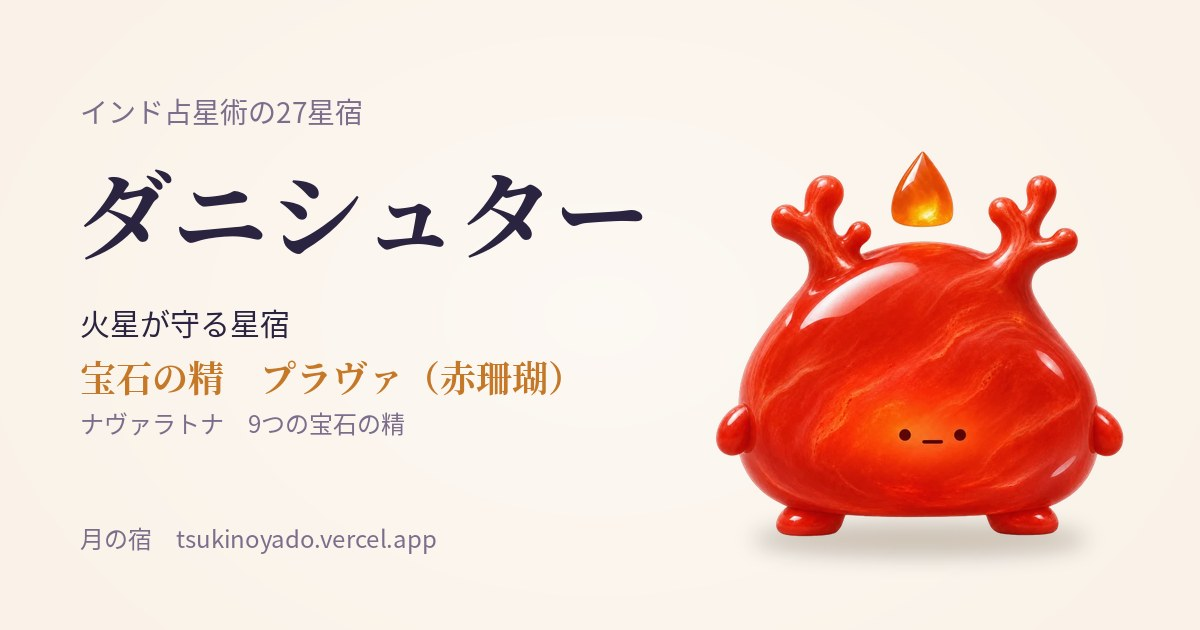
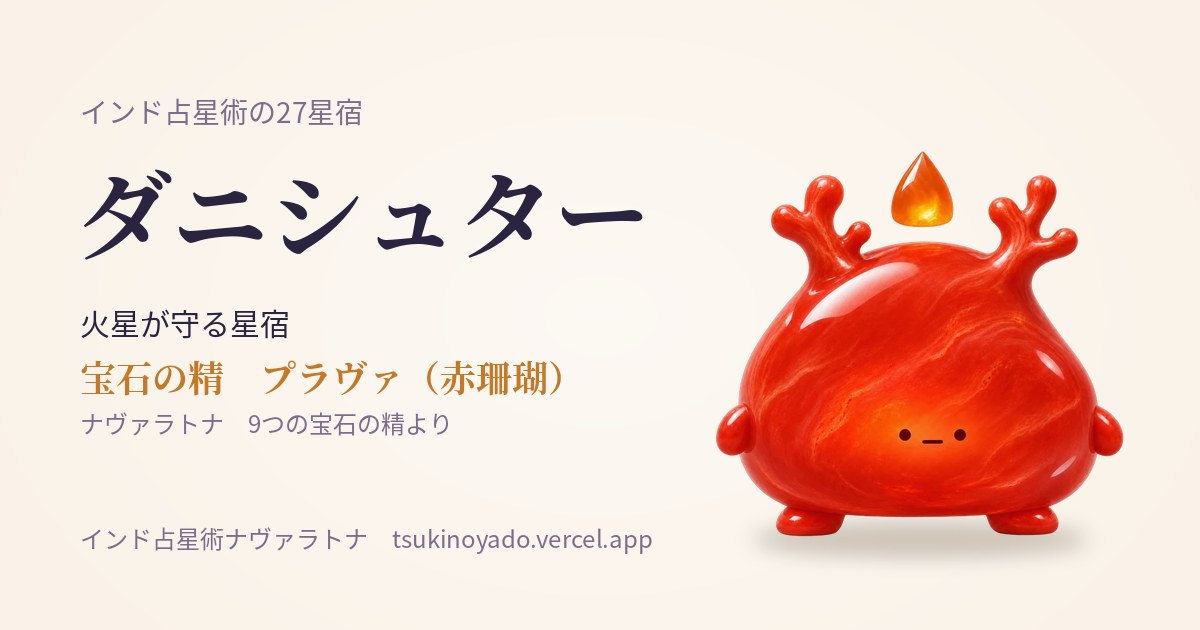
サイト名を「インド占星術ナヴァラトナ」に変更（ロゴ、タイトル、シェア画像、ハッシュタグ、運営者表記）
Claude-Session: https://claude.ai/code/session_01CytgqpMCeuamcez5Rq2jrM

Changed region(s): [[0.0617, 0.8444, 0.555, 0.8746], [0.3392, 0.6635, 0.37, 0.6937]]

diff --git a/src/assets/chart.js b/src/assets/chart.js
@@ -14,7 +14,7 @@ function render(){var b=TK.readBirth('a-'),st=$('status');if(b.err){st.textConte
    '<div class="card"><span class="eyebrow">心の星宿（月のナクシャトラ）</span><span class="big">'+moon.nak.name+'</span><h3>月は'+S[moon.sign]+'</h3><p class="note" style="color:inherit">'+((window.NKSUM||[])[moon.nak.i]||'')+'</p><a href="/nakshatra/'+moon.nak.slug+'/">'+moon.nak.name+'のくわしい解説を読む</a>'+(window.SR?'<div class="mini-seirei"><img src="'+SR.img(SR.BY[JY.DL[moon.nak.i%9]].id,true)+'" alt="" width="56" height="56"><span class="note">この星宿を守る精：<a href="/seirei/#'+SR.BY[JY.DL[moon.nak.i%9]].id+'">'+SR.BY[JY.DL[moon.nak.i%9]].name+'（'+SR.BY[JY.DL[moon.nak.i%9]].gem+'・'+JY.DL[moon.nak.i%9]+'）</a></span></div>':'')+(mr?'<p class="warn">この日は月が「'+JY.NK[mr[0]]+'」から「'+JY.NK[mr[1]]+'」へ移る日です。時刻がわかると確定できます。</p>':'')+'</div>'+
    (b.unknown?'':'<div class="card"><span class="eyebrow">アセンダント（ラグナ）</span><span class="big">'+S[r.ascSign]+'</span><h3>生まれ持った性質</h3><p class="note" style="color:inherit">'+LGT[r.ascSign]+'</p></div>');
   if(window.CX){$('readings').insertAdjacentHTML('beforeend',CX.mangal(r,b));$('stren').innerHTML=CX.strength(r,b);}
-  if($('shr'))$('shr').innerHTML=TK.shareHTML('私の魂の星は「'+ak+'」、心の星宿は「'+moon.nak.name+'」でした。 #月の宿 #インド占星術',location.origin+'/chart/');
+  if($('shr'))$('shr').innerHTML=TK.shareHTML('私の魂の星は「'+ak+'」、心の星宿は「'+moon.nak.name+'」でした。 #ナヴァラトナ #インド占星術',location.origin+'/chart/');
   var k1=cells(r,1);$('d1').innerHTML='<figcaption><b>D1 出生図</b><span>'+who+'／'+b.label+'</span></figcaption>'+TK.grid(k1.c,b.unknown?-1:k1.a,'ラーシ<br>出生図');
   var t='<thead><tr><th>星</th><th>星座</th><th>度数</th><th>ハウス</th><th>星宿・パダ</th><th>状態</th><th>カーラカ</th></tr></thead><tbody>';
   if(!b.unknown)t+='<tr><td><b>アセンダント</b></td><td>'+S[r.ascSign]+'</td><td class="num">'+dm(r.asc%30)+'</td><td class="num">1室</td><td>'+r.ascNak.name+' '+r.ascNak.pada+'</td><td></td><td></td></tr>';

diff --git a/src/assets/sadesati.js b/src/assets/sadesati.js
@@ -9,7 +9,7 @@ function run(){var b=TK.readBirth('a-'),st=$('status');if(b.err){st.textContent=
   var warn=b.unknown&&Math.floor(JY.moonSid(b.dayStart)/30)!==Math.floor(JY.moonSid(b.dayStart+864e5-6e4)/30)?'<p class="warn">生まれた日に月の星座が切り替わっています。時刻がわかると確定できます。</p>':'';
   $('res').innerHTML='<div class="card now"><span class="eyebrow">あなたの月の星座</span><span class="big">'+JY.SIGNS[ms]+'</span><h3>'+(cur?'いまはサディサティの時期です':'いまはサディサティの時期ではありません')+'</h3>'+(ph?'<p style="margin:0">'+ph+'</p>':'')+'<p class="note">対象になる星座：'+JY.SIGNS[Z[0]]+'・'+JY.SIGNS[Z[1]]+'・'+JY.SIGNS[Z[2]]+'</p>'+warn+'</div>'+
    '<div class="card"><h3>生涯のサディサティ</h3><ul style="margin:0;padding-left:1.2em">'+per.map(function(p){var live=p===cur,past=p.end!==null&&p.end<=now;return '<li><span class="num">'+(p.fromStart?'誕生時':TK.ymd(p.start))+' 〜 '+(p.end?TK.ymd(p.end):'')+'</span> '+(live?'<span class="pill b">いまこの時期</span>':past?'<span class="pill r">終了</span>':'<span class="pill own">これから</span>')+'</li>';}).join('')+'</ul><p class="note">土星の逆行で短く行き来する期間は、一続きの時期としてまとめています。</p></div>';
-  $('res').insertAdjacentHTML('beforeend',TK.shareHTML('土星の7年半「サディサティ」の時期を調べました。 #月の宿 #インド占星術',location.origin+'/sadesati/'));
+  $('res').insertAdjacentHTML('beforeend',TK.shareHTML('土星の7年半「サディサティ」の時期を調べました。 #ナヴァラトナ #インド占星術',location.origin+'/sadesati/'));
   st.textContent='結果を表示しています';return true;}
 function nowList(){try{var t=Astronomy.MakeTime(new Date()),s=Math.floor(((Astronomy.Ecliptic(Astronomy.GeoVector(Astronomy.Body.Saturn,t,true)).elon-(23.856704+1.397238*(t.tt/36525)))%360+360)%360/30);
   var a=(s+1)%12,b=s,c=(s+11)%12;$('nowlist').innerHTML='<li><b>'+JY.SIGNS[a]+'</b>：第1段階</li><li><b>'+JY.SIGNS[b]+'</b>：ピーク</li><li><b>'+JY.SIGNS[c]+'</b>：最終段階</li>';$('satnow').textContent=JY.SIGNS[s];}catch(e){}}

diff --git a/src/assets/aisho.js b/src/assets/aisho.js
@@ -38,7 +38,7 @@ function run(){var a=TK.readBirth('a-'),b=TK.readBirth('b-'),st=$('status');if(a
       (hA||hB)?['少し注意の組み合わせ','b',(hA?'あなた':'お相手')+'にだけマンガル・ドーシャがあります。火星の情熱や勢いが、関係の中で強く出やすい組み合わせです。ぶつかったときの冷まし方を二人で決めておくと安心です。ほかの項目の相性がよければ大きな問題ではないとする占い師も多くいます。']:
       ['よい組み合わせ','g',(mA.has||mB.has)?'マンガル・ドーシャはありますが、火星が穏やかに働く位置にあるため、気にしなくてよい組み合わせです。':'二人ともマンガル・ドーシャはありません。'];
   $('res').insertAdjacentHTML('beforeend','<div class="card"><span class="eyebrow">マンガル・ドーシャ（火星の配置）</span><h3><span class="pill '+mv[1]+'">'+mv[0]+'</span></h3><p style="margin:0">'+mv[2]+'</p><p class="note" style="color:inherit"><b>あなた：</b>'+CX.mangalText(mA)+'<br><b>お相手：</b>'+CX.mangalText(mB)+'</p><p class="note">インドで結婚の相性を見るとき、36点の相性とあわせて必ず確かめる配置です。'+((a.unknown||b.unknown)?'時刻がわからない人は、月と金星からだけ見ています。':'')+'</p></div>');
-  $('res').insertAdjacentHTML('beforeend',TK.shareHTML('インド式の相性占いで、二人の相性は36点中'+(Math.round(r.total*10)/10)+'点でした。 #月の宿 #インド占星術',location.origin+'/aisho/'));
+  $('res').insertAdjacentHTML('beforeend',TK.shareHTML('インド式の相性占いで、二人の相性は36点中'+(Math.round(r.total*10)/10)+'点でした。 #ナヴァラトナ #インド占星術',location.origin+'/aisho/'));
   st.textContent='相性を表示しています';return true;}
 TK.initPlace('a-');TK.initPlace('b-');
 $('f').addEventListener('submit',function(e){e.preventDefault();try{if(run())$('res').scrollIntoView({behavior:'smooth'});}catch(err){$('status').textContent='計算できませんでした。入力を確認してください。';}});

diff --git a/src/assets/group.js b/src/assets/group.js
@@ -21,7 +21,7 @@ function run(){var ppl=read().filter(function(x){return x.d;}),st=$('status');if
   ppl.map(function(x,i){return '<tr><td><b>'+x.name.replace(/</g,'&lt;')+'</b><br><a class="note" href="/nakshatra/'+x.nk.slug+'/">'+x.nk.name+'</a>'+(x.amb?'<br><span class="warn">星宿が未確定</span>':'')+'</td>'+M[i].map(function(v){return v===null?'<td class="mut">—</td>':'<td class="num"><span class="pill '+colr(v)+'">'+(Math.round(v*10)/10)+'</span></td>';}).join('')+'</tr>';}).join('')+'</tbody></table></div>';
  h+='<div class="card"><h3>相性ランキング</h3><ol style="margin:0;padding-left:1.4em">'+pairs.map(function(p){return '<li>'+ppl[p.a].name.replace(/</g,'&lt;')+' × '+ppl[p.b].name.replace(/</g,'&lt;')+'　<span class="num">'+(Math.round(p.v*10)/10)+'点</span></li>';}).join('')+'</ol><p class="note">点数は、インド式の相性占い「アシュタクータ」（36点満点）を、性別を問わず両方向で計算した平均です。18点以上がひとつの目安です。</p></div>';
  if(ppl.some(function(x){return x.amb;}))h+='<p class="warn">「星宿が未確定」の人は、生まれた日に月の星宿が切り替わっています。時刻を入れると確定します。</p>';
- h+=TK.shareHTML(N+'人のグループ相性を、インド占星術で占いました。 #月の宿 #インド占星術',location.origin+'/group/');
+ h+=TK.shareHTML(N+'人のグループ相性を、インド占星術で占いました。 #ナヴァラトナ #インド占星術',location.origin+'/group/');
  $('res').innerHTML=h;st.textContent=N+'人の相性を表示しています';return true;}
 $('add').addEventListener('click',function(){addRow();save();});
 $('f').addEventListener('submit',function(e){e.preventDefault();try{if(run())$('res').scrollIntoView({behavior:'smooth'});}catch(err){$('status').textContent='計算できませんでした。入力を確認してください。';}});

diff --git a/src/assets/muhurta.js b/src/assets/muhurta.js
@@ -24,7 +24,7 @@ function run(e){if(e)e.preventDefault();var k=$('mp').value,R=P[k],mine=$('mn').
    (out.length?'<div class="mlist">'+out.map(function(o){var x=o.x,top=best.indexOf(x.ds)>=0;return '<div class="mrow'+(top?' top':'')+'"><b class="num">'+x.y+'/'+x.m+'/'+x.d+'（'+WK[x.wd]+'）</b>'+(top?'<span class="pill g">特におすすめ</span>':'')+
      '<span>月の星宿：<a href="/nakshatra/'+JY.NKSLUG[x.nk]+'/">'+JY.NK[x.nk]+'</a>・'+(x.ti<15?'満ちていく月':'欠けていく月')+'の'+(x.ti%15+1)+'日目'+(x.nk===7&&x.wd===4?'・<b>グル・プシュヤ</b>':'')+(o.r!==null?'・あなたにとって「'+JY.TARA[o.r][0]+'」':'')+'</span></div>';}).join('')+'</div>':'<p class="note">この期間には、条件がそろう日がありませんでした。期間を延ばしてみてください。</p>')+
    '<p class="note">'+R.note+'あわせて、曜日（月・水・木・金'+(k==='travel'?'・日':'')+'）、ティティ（月齢日）の吉日、欠けていく月の終わりを避ける、という伝統的な条件で選んでいます。日の判定は日の出（東京）の時点です。</p>'+
-   TK.shareHTML('インド占星術の吉日選びで、'+R.n+'によい日を調べました。 #月の宿 #インド占星術',location.origin+'/muhurta/');}
+   TK.shareHTML('インド占星術の吉日選びで、'+R.n+'によい日を調べました。 #ナヴァラトナ #インド占星術',location.origin+'/muhurta/');}
 TK.ready(function(){var s=$('mn'),mine=TK.loadNak(),o='<option value="">選ばない</option>';for(var i=0;i<27;i++)o+='<option value="'+i+'"'+(mine===i?' selected':'')+'>'+JY.NK[i]+'</option>';s.innerHTML=o;
   $('mp').innerHTML=Object.keys(P).map(function(k){return '<option value="'+k+'">'+P[k].n+'</option>';}).join('');
   $('mf').addEventListener('submit',run);run();});

diff --git a/src/assets/quick.js b/src/assets/quick.js
@@ -6,7 +6,7 @@ function card(i,sign,extra){var slug=JY.NKSLUG[i];
   return '<div class="card now"><span class="eyebrow">あなたの月の星宿</span><span class="big">'+JY.NK[i]+'</span><h3>月の星座は'+JY.SIGNS[sign]+'</h3>'+
   '<p style="margin:0">'+(SM[i]||'')+'</p>'+(extra||'')+
   (window.SR?SR.card(JY.DL[i%9],{label:JY.NK[i]+'を守る宝石の精'}):'')+'<div class="qbtn"><a class="btn" href="/nakshatra/'+slug+'/">'+JY.NK[i]+'の性格を読む</a><a class="btn ghost" href="/fortune/'+SL[sign]+'/">'+JY.SIGNS[sign]+'の今月の運勢</a><a class="btn ghost" href="/calendar/">吉日カレンダー</a></div>'+
-  TK.shareHTML('インド占星術で調べたら、私の月の星宿は「'+JY.NK[i]+'」でした。 #月の宿 #インド占星術',location.origin+'/nakshatra/'+slug+'/')+'</div>';}
+  TK.shareHTML('インド占星術で調べたら、私の月の星宿は「'+JY.NK[i]+'」でした。 #ナヴァラトナ #インド占星術',location.origin+'/nakshatra/'+slug+'/')+'</div>';}
 function run(e){if(e)e.preventDefault();var v=$('qbd').value,out=$('qres');if(!v){out.innerHTML='<p class="warn">生年月日を入れてください。</p>';return;}
   var a=v.split('-').map(Number),ds=Date.UTC(a[0],a[1]-1,a[2])-9*36e5;var 
       nk=function(m){return Math.floor(JY.moonSid(m)/(40/3));},sg=function(m){return Math.floor(JY.moonSid(m)/30);};

diff --git a/src/assets/wheel.js b/src/assets/wheel.js
@@ -37,5 +37,5 @@ TK.ready(function(){var s=$('wsel'),o='';for(var i=0;i<27;i++)o+='<option value=
   svg.addEventListener('pointerdown',function(ev){drag={a:ang(ev),r:rot};moved=false;svg.setPointerCapture(ev.pointerId);});
   svg.addEventListener('pointermove',function(ev){if(!drag)return;var d=ang(ev)-drag.a;if(Math.abs(d)>3)moved=true;if(moved)setRot(drag.r+d,false);});
   svg.addEventListener('pointerup',function(ev){if(!drag)return;drag=null;if(!moved){var t=document.elementFromPoint(ev.clientX,ev.clientY);if(t&&t.dataset&&t.dataset.i!==undefined){pick=+t.dataset.i;info();$('wg').querySelectorAll('.ws').forEach(function(z){z.classList.toggle('on',+z.dataset.i===pick);});}return;}var top=((-rot/W-.5)%27+27)%27;base=Math.round(top)%27;pick=null;build();setTimeout(function(){moved=false;},50);});
-  build();$('shr').innerHTML=TK.shareHTML('27星宿の円盤を回して、星の巡り（ターラ）を見てみました。 #月の宿 #インド占星術',location.origin+'/wheel/');});
+  build();$('shr').innerHTML=TK.shareHTML('27星宿の円盤を回して、星の巡り（ターラ）を見てみました。 #ナヴァラトナ #インド占星術',location.origin+'/wheel/');});
 })();

diff --git a/src/assets/calc.js b/src/assets/calc.js
@@ -1,4 +1,4 @@
-/* 月の宿 計算エンジン（ラーヒリー／ホールサイン）。Astronomy Engine (MIT) を使用 */
+/* インド占星術ナヴァラトナ 計算エンジン（ラーヒリー／ホールサイン）。Astronomy Engine (MIT) を使用 */
 var JY = (function(){
   var SIGNS=['牡羊座','牡牛座','双子座','蟹座','獅子座','乙女座','天秤座','蠍座','射手座','山羊座','水瓶座','魚座'];
   var NK=['アシュヴィニー','バラニー','クリッティカー','ローヒニー','ムリガシラー','アールドラー','プナルヴァス','プシュヤ','アーシュレーシャー','マガー','プールヴァ・パールグニー','ウッタラ・パールグニー','ハスタ','チトラー','スワーティ','ヴィシャーカー','アヌラーダー','ジェーシュター','ムーラ','プールヴァ・アーシャーダー','ウッタラ・アーシャーダー','シュラヴァナ','ダニシュター','シャタビシャー','プールヴァ・バードラパダー','ウッタラ・バードラパダー','レーヴァティー'];

diff --git a/src/assets/calendar.js b/src/assets/calendar.js
@@ -52,5 +52,5 @@ TK.ready(function(){var p=jstParts(Date.now()),s=$('mynk');
   s.addEventListener('change',function(){mine=s.value===''?null:+s.value;if(mine!==null)TK.saveNak(mine);draw();});
   $('prev').addEventListener('click',function(){go(cur.y,cur.m-1);});$('next').addEventListener('click',function(){go(cur.y,cur.m+1);});
   var q=location.hash.match(/^#(\d{4})-(\d{1,2})$/);go(q?+q[1]:p[0],q?+q[2]-1:p[1]);
-  $('shr').innerHTML=TK.shareHTML('インド占星術の吉日カレンダー。グル・プシュヤや満月の日がひと目でわかります。 #月の宿',location.origin+'/calendar/');});
+  $('shr').innerHTML=TK.shareHTML('インド占星術の吉日カレンダー。グル・プシュヤや満月の日がひと目でわかります。 #ナヴァラトナ',location.origin+'/calendar/');});
 })();

diff --git a/src/assets/fortune.js b/src/assets/fortune.js
@@ -3,4 +3,4 @@
   document.querySelectorAll('[data-off]').forEach(function(b){b.setAttribute('aria-pressed',+b.dataset.off===off?'true':'false');});}
  document.querySelectorAll('[data-off]').forEach(function(b){b.addEventListener('click',function(){off=+b.dataset.off;draw();});});
  try{draw();}catch(e){}
- $('shr').innerHTML=TK.shareHTML(JY.SIGNS[M]+'（月の星座）の今月の運勢を、インド占星術で見ました。 #月の宿 #インド占星術',location.origin+'/fortune/'+FD.SL[M]+'/');});})();
+ $('shr').innerHTML=TK.shareHTML(JY.SIGNS[M]+'（月の星座）の今月の運勢を、インド占星術で見ました。 #ナヴァラトナ #インド占星術',location.origin+'/fortune/'+FD.SL[M]+'/');});})();

diff --git a/src/assets/style.css b/src/assets/style.css
@@ -227,3 +227,6 @@ details.card summary{cursor:pointer}
 .card.seirei{flex-direction:row}
 .sr-line{flex-wrap:wrap;overflow:visible;gap:4px 2px}
 .sr-line a{width:min(18%,96px)}
+.logo{align-items:center;gap:8px}.logo img{width:34px;height:34px;object-fit:contain;filter:drop-shadow(0 2px 4px rgba(0,0,0,.3))}
+.logo .lt{display:flex;flex-direction:column;line-height:1.05;font-size:22px;letter-spacing:.06em}
+.logo .lt small{font-size:10.5px;letter-spacing:.3em;opacity:.75;font-family:var(--f-body);font-weight:600;margin-bottom:2px}

diff --git a/tools/og.py b/tools/og.py
@@ -25,12 +25,12 @@ def center(d,y,t,f,fill):
     w=d.textlength(t,font=f);d.text(((1200-w)/2,y),t,font=f,fill=fill)
 # 全体
 im=bg();d=ImageDraw.Draw(im)
-center(d,70,'月の宿',F(SERIF,92),INK)
-center(d,190,'インド占星術の無料占い ─ 27星宿・魂の星図・相性・吉日',F(SANS,28),MUT)
+center(d,58,'インド占星術',F(SERIF,34),MUT)
+center(d,100,'ナヴァラトナ',F(SERIF,92),INK)
+center(d,222,'9つの宝石の精と読む、無料占い ─ 27星宿・星図・相性・吉日',F(SANS,26),MUT)
 S=140;x0=(1200-(S-12)*8-S)//2
 for i,k in enumerate(ORDER):
     shadow(im,sp(k,S),(x0+i*(S-12),330+(0 if i%2==0 else 30)))
-center(d,548,'ナヴァラトナ　9つの宝石の精',F(SERIF,26),(196,120,40))
 center(d,588,'tsukinoyado.vercel.app',F(SANS,20),MUT)
 im.convert('RGB').save(A+'og.png',optimize=True)
 # 星宿ごと
@@ -43,7 +43,7 @@ for n in nak:
     d.text((76,140),nm,font=F(SERIF,fs),fill=INK)
     d.text((80,300),f"{n['lord']}が守る星宿",font=F(SANS,30),fill=INK)
     a,g=NM[id];d.text((80,350),f"宝石の精　{a}（{g}）",font=F(SERIF,36),fill=ACC)
-    d.text((80,405),"ナヴァラトナ　9つの宝石の精",font=F(SANS,24),fill=MUT)
-    d.text((80,520),'月の宿　tsukinoyado.vercel.app',font=F(SANS,24),fill=MUT)
+    d.text((80,405),"ナヴァラトナ　9つの宝石の精より",font=F(SANS,24),fill=MUT)
+    d.text((80,520),'インド占星術ナヴァラトナ　tsukinoyado.vercel.app',font=F(SANS,24),fill=MUT)
     im.convert('RGB').save(A+'og/nak-'+n['slug']+'.jpg',quality=88,optimize=True)
 print('ok',len(nak))
